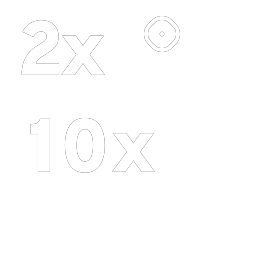
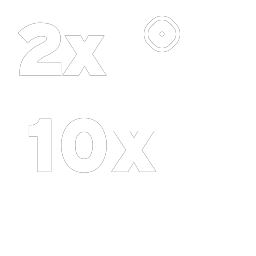
Set the sniper's 2x and 10x zoom labels in Cyborg Interface Gothic
The high-res scope's labels were set in Overpass Black, whose plain 1 and
round figures looked nothing like the maps' lettering (issue 756). They are
now set in Cyborg Interface Gothic, the high-res text's font, emboldened to
the maps' weight and fitted to their size, place and spacing, so the 1 has
the Xbox's flag and foot. tools/hud_assets.py makes the labels; the sheet
and its layout are made again, and AUTHORS.md, the HUD's NOTICE and the
README say the new font.

Checked: tools/test_hud_assets.py passes; the labels compared against the
Xbox's 2x and 10x and master's in-game scope.

Fixes #756

diff --git a/tools/hud_assets.py b/tools/hud_assets.py
@@ -42,8 +42,9 @@ layout: reads the Xbox map's HUD bitmaps (sizes, formats, sprite rectangles,
     port/assets/hud/art. A bitmap with a cell that the art does not match
     keeps its entry in layout.json as it was (its redraws). Needs a map and
     the restored tags; its output is committed.
-labels: sets the sniper's zoom labels (LABELS) in Overpass, each fitted to
-    the map's, into port/assets/hud/svg and their cells of layout.json.
+labels: sets the sniper's zoom labels (LABELS) in Cyborg Interface Gothic,
+    each fitted to the map's (size, place, spacing and weight), into
+    port/assets/hud/svg and their cells of layout.json.
 build: draws port/assets/hud/art and svg with layout.json into
     port/assets/hud/*.png (committed; the builds embed them).
 check: compares each PNG, reduced to the tag's size, with the map's bitmap
@@ -115,8 +116,8 @@ CORNERS = {
 }
 # the cells drawn from their redraw, not the restored art (the bitmap, the
 # Xbox cell): the sniper's zoom labels, the Xbox's 2x and 10x, where the
-# restored ones (Halo PC's) say 2x and 8x, set in Overpass together
-# (tools/hud_assets.py reticles: LABELS)
+# restored ones (Halo PC's) say 2x and 8x, set in Cyborg Interface Gothic
+# together (labels: LABELS)
 REDRAWN = {
     ("sniper__hud_reticles_scope__0", (0, 0, 31, 24)),
     ("sniper__hud_reticles_scope__0", (0, 24, 43, 48)),
@@ -138,13 +139,20 @@ MATCH = 0.25
 
 # the zoom labels beside the sniper's reticle, by sequence and sprite: the
 # restored art has Halo PC's (2x and 8x), not the Xbox's (2x and 10x), so they
-# are set in a font that matches them, with the spacing between their glyphs
-# that fits best
+# are set in the HUD's text font (issue 756: Overpass did not look like the
+# Xbox's), each with the spacing between its glyphs that fits it best, and
+# all at the weight that fits them best together: the Xbox's letters are
+# heavier than the font's one weight, so they are emboldened by an outline of
+# that width (hundredths of an em, mitred to keep the font's corners)
 LABELS = {
     HUD + "sniper\\hud_reticles_scope": {(1, 0): "2x", (1, 1): "10x"},
 }
-LABEL_FONT = Path("port/assets/fonts/Overpass-900.ttf")
-LABEL_SPACINGS = (-10, -8, -6, -4, -2, 0, 2, 4)
+LABEL_FONT = Path("port/assets/fonts/CyborgInterfaceGothic-Regular.ttf")
+LABEL_SPACINGS = (-6, -4, -2, 0, 2, 4, 6, 8, 10, 12)
+LABEL_WEIGHTS = (0, 2, 4, 6, 8, 10)
+# the least room between two glyphs' boxes (hundredths of an em): the Xbox's
+# run together in their blur, which drawn sharp would read as one shape
+LABEL_GAP = 3
 # render texels per Xbox texel while fitting one, and the scales tried
 # around the one its extent gives
 FIT_TEXELS = 8
@@ -675,15 +683,45 @@ def text_outlines(font: Path, text: str, spacing: float = 0) -> tuple:
             x * scale, (ascent - descent) * scale)
 
 
-def text_svg(font: Path, text: str, spacing: float = 0) -> str:
+def text_gap(font: Path, text: str, spacing: float = 0, weight: float = 0) -> float:
+    """The least room (hundredths of an em) between the boxes of text's
+    neighbouring glyphs, set as text_svg sets them."""
+    from fontTools.pens.boundsPen import BoundsPen
+    from fontTools.ttLib import TTFont
+
+    face = TTFont(str(font))
+    glyphs = face.getGlyphSet()
+    cmap = face.getBestCmap()
+    scale = 100 / face["head"].unitsPerEm
+    gaps, x, previous = [], 0, None
+    for character in text:
+        name = cmap[ord(character)]
+        pen = BoundsPen(glyphs)
+        glyphs[name].draw(pen)
+        if previous is not None:
+            gaps.append((x + pen.bounds[0] - previous) * scale - weight)
+        previous = x + pen.bounds[2]
+        x += face["hmtx"][name][0] + spacing / scale
+    return min(gaps, default=0)
+
+
+def text_svg(font: Path, text: str, spacing: float = 0, weight: float = 0) -> str:
     """text's outlines in a font, as an SVG (an em of 100 units), for a
     label that has no redraw: the glyphs as the font draws them, set with
-    its advances and spacing (in hundredths of an em) between them."""
+    its advances and spacing (in hundredths of an em) between them, and
+    emboldened by an outline weight hundredths of an em wide (half of it
+    outside the glyphs), the picture grown by that half on each side."""
     paths, transform, width, height = text_outlines(font, text, spacing)
+    pad = weight / 2
+    width, height = width + 2 * pad, height + 2 * pad
+    stroke = ""
+    if weight:
+        scale = float(transform.split("(")[1].split()[0])
+        stroke = f' stroke="#ffffff" stroke-width="{weight / scale:g}" stroke-linejoin="miter"'
     return (f'<svg xmlns="http://www.w3.org/2000/svg" width="{width:.2f}" height="{height:.2f}" '
             f'viewBox="0 0 {width:.2f} {height:.2f}">\n'
-            f'<!-- "{text}" in {font.name} -->\n'
-            f'<g fill="#ffffff" transform="{transform}">\n'
+            f'<!-- "{text}" in {font.name}, spacing {spacing:g}, weight {weight:g} -->\n'
+            f'<g fill="#ffffff"{stroke} transform="translate({pad:g} {pad:g}) {transform}">\n'
             + paths + "\n</g>\n</svg>\n")
 
 
@@ -736,10 +774,12 @@ def place(render: np.ndarray, alpha: np.ndarray, target: np.ndarray, zoom: float
 
 def labels(arguments) -> None:
     """The sniper's zoom labels (LABELS), set in LABEL_FONT at the size,
-    place and spacing between their glyphs that match the map's best, into
-    their cells of layout.json (REDRAWN: layout keeps them)."""
+    place and spacing between their glyphs that match the map's best, all
+    at the one weight that matches them best together (the Xbox's are one
+    weight), into their cells of layout.json (REDRAWN: layout keeps them)."""
     xbox_map = XboxMap(Path(arguments.map))
     description = json.loads(LAYOUT.read_text())
+    labelled = []
     for tag, texts in LABELS.items():
         group = xbox_map.bitmap_group(tag)
         for (sequence, sprite_index), text in sorted(texts.items()):
@@ -752,22 +792,29 @@ def labels(arguments) -> None:
             cell = pixel_rectangle(sprite, bitmap["width"], bitmap["height"])
             alpha = decode_bitmap(bitmap)[cell[1]:cell[3], cell[0]:cell[2], 3].astype(float)
             svg = f"label__{LABEL_FONT.stem}__{text}.svg"
-            best = None
-            for spacing in LABEL_SPACINGS:
-                (ASSETS / "svg" / svg).write_text(text_svg(LABEL_FONT, text, spacing))
-                fit = fit_reticle(ASSETS / "svg" / svg, alpha)
-                if best is None or fit[0] > best[0][0]:
-                    best = (fit, spacing)
-            (score, per_texel, corner), spacing = best
-            (ASSETS / "svg" / svg).write_text(text_svg(LABEL_FONT, text, spacing))
-            size = render_svg(ASSETS / "svg" / svg)[..., 3].shape
-            laid = {"xbox": cell, "svg": svg, "source_scale": round(per_texel, 5),
-                    "source": [round(corner[0], 4), round(corner[1], 4)],
-                    "clip": [0, 0, size[1], size[0]], "kind": "alpha", "score": round(score, 3)}
-            entry["cells"] = [c for c in entry["cells"] if c["xbox"] != cell] + [laid]
-            entry["cells"].sort(key=lambda c: c["xbox"])
-            print(f"{name} {cell}: \"{text}\" in {LABEL_FONT.name}, spacing {spacing}, "
-                  f"{per_texel:.4f} units a texel, likeness {score:.3f}")
+            # (each weight's best fit, over the spacings)
+            fits = {}
+            for weight in LABEL_WEIGHTS:
+                for spacing in LABEL_SPACINGS:
+                    if text_gap(LABEL_FONT, text, spacing, weight) < LABEL_GAP:
+                        continue
+                    (ASSETS / "svg" / svg).write_text(text_svg(LABEL_FONT, text, spacing, weight))
+                    fit = fit_reticle(ASSETS / "svg" / svg, alpha)
+                    if weight not in fits or fit[0] > fits[weight][0][0]:
+                        fits[weight] = (fit, spacing)
+            labelled.append((name, entry, cell, text, svg, fits))
+    weight = max(LABEL_WEIGHTS, key=lambda w: sum(fits[w][0][0] for *_, fits in labelled))
+    for name, entry, cell, text, svg, fits in labelled:
+        (score, per_texel, corner), spacing = fits[weight]
+        (ASSETS / "svg" / svg).write_text(text_svg(LABEL_FONT, text, spacing, weight))
+        size = render_svg(ASSETS / "svg" / svg)[..., 3].shape
+        laid = {"xbox": cell, "svg": svg, "source_scale": round(per_texel, 5),
+                "source": [round(corner[0], 4), round(corner[1], 4)],
+                "clip": [0, 0, size[1], size[0]], "kind": "alpha", "score": round(score, 3)}
+        entry["cells"] = [c for c in entry["cells"] if c["xbox"] != cell] + [laid]
+        entry["cells"].sort(key=lambda c: c["xbox"])
+        print(f"{name} {cell}: \"{text}\" in {LABEL_FONT.name}, spacing {spacing}, weight {weight}, "
+              f"{per_texel:.4f} units a texel, likeness {score:.3f}")
     LAYOUT.write_text(json.dumps(description, indent=1) + "\n")
 
 

diff --git a/tools/test_hud_assets.py b/tools/test_hud_assets.py
@@ -100,3 +100,32 @@ def test_holes_finds_a_letter_and_not_a_plain_oval():
     cut = oval.copy()
     cut[70:130, 90:110] = 0
     assert holes(cut.astype(np.uint8)) > 500
+
+
+
+def label_setting(svg: Path) -> tuple:
+    """What a label's SVG says it is: (its text, font, spacing, weight)."""
+    import re
+
+    match = re.search(r'<!-- "([^"]+)" in (\S+), spacing (-?[\d.]+), weight ([\d.]+) -->', svg.read_text())
+    return match and (match[1], match[2], float(match[3]), float(match[4]))
+
+
+def test_zoom_labels_are_set_in_the_text_font_apart_and_at_one_weight(tmp_path):
+    """The sniper's 2x and 10x (issue 756): Cyborg Interface Gothic, the
+    high-res text's font, emboldened to one weight, their glyphs apart."""
+    from hud_assets import LABEL_FONT, LABEL_GAP, text_gap
+
+    scope = next(entry for entry in entries(HUD / "layout.json") if entry["name"] == "sniper__hud_reticles_scope__0")
+    settings = [label_setting(HUD / "svg" / cell["svg"]) for cell in scope["cells"] if "svg" in cell]
+    assert sorted(setting[0] for setting in settings) == ["10x", "2x"]
+    assert {setting[1] for setting in settings} == {LABEL_FONT.name} == {"CyborgInterfaceGothic-Regular.ttf"}
+    assert len({setting[3] for setting in settings}) == 1 and settings[0][3] > 0
+    for text, _, spacing, weight in settings:
+        assert text_gap(ROOT / LABEL_FONT, text, spacing, weight) >= LABEL_GAP, text
+    # (negative controls: the Overpass label before, which says no weight;
+    # and a spacing that runs the emboldened 2 into its x)
+    before = tmp_path / "before.svg"
+    before.write_text('<!-- "10x" in Overpass-900.ttf -->')
+    assert label_setting(before) is None
+    assert text_gap(ROOT / LABEL_FONT, "2x", -4, 6) < LABEL_GAP

diff --git a/port/linux/README.md b/port/linux/README.md
@@ -6579,7 +6579,7 @@ does; making the eye images from the four layers cost 0.2 ms more there.
 | --- | --- |
 | Game code | All 466 C files of the game. The changes are in "Game source changes". |
 | Graphics | Direct3D 8 on Vulkan 1.3, in the host, with SDL3's window. A front end (`src/d3d8_device.c`) keeps the Direct3D state and turns each draw into a description that any graphics API can draw (`src/xgpu_backend.h`: the pipeline's key, the textures and targets it binds, the draw's ranges, all plain data); the Vulkan backend (`vulkan/`) draws them in the host, building the pipeline for a key once and keeping it (on macOS and iOS the Metal backend). The port translates the NV2A vertex shaders and register combiners into a description of their operations (`src/xgpu_shader.h`), which `src/xgpu_spirv.c` writes as SPIR-V (and `src/xgpu_msl.c` as MSL, for Metal). It decodes all the Xbox texture formats. The vertex and index buffers come from a copy of the Xbox memory on the GPU. |
-| High-res HUD | The HUD is drawn from high-res assets in `port/assets/hud`: Aerocatia's and Jessie's high-res HUD art from Halo PC Restored r220 (`port/assets/hud/NOTICE.md`), at its own 4x the size of the maps' bitmaps, cut and placed by `tools/hud_assets.py` (layout) where the Xbox maps' sheets have each sprite, each Xbox sprite from the restored sprite whose shape matches it best, aligned by its content (the meters from the release's sheets in the Xbox channel order). Where it has nothing larger than the map's bitmap (the motion sensor's blips and sweeper, the health meter's base) the texture is drawn from an SVG redraw at 8x; the sniper rifle's zoom labels (2x, 10x: the restored ones say 8x) are set in Overpass. The build embeds them in the executable. When the game uploads one of those bitmaps, `src/hud_hires.c` gives the high-res texture in its place, if the bitmap's pixels are those of the English maps: another language's maps keep their own, upscaled. The sheets with text (the message icons, the reticle's warnings) are drawn sprite by sprite, each checked on its own cell's texels, so that every language's maps draw the pictures from the art beside their own lettering. The classic style's controller buttons (`display.hud_button_style`) are the art's button stencils in the buttons' colours, their letters cut out as the Xbox's are. The game sizes and places the HUD from its tags as before. `display.high_res_hud = false` turns this off. |
+| High-res HUD | The HUD is drawn from high-res assets in `port/assets/hud`: Aerocatia's and Jessie's high-res HUD art from Halo PC Restored r220 (`port/assets/hud/NOTICE.md`), at its own 4x the size of the maps' bitmaps, cut and placed by `tools/hud_assets.py` (layout) where the Xbox maps' sheets have each sprite, each Xbox sprite from the restored sprite whose shape matches it best, aligned by its content (the meters from the release's sheets in the Xbox channel order). Where it has nothing larger than the map's bitmap (the motion sensor's blips and sweeper, the health meter's base) the texture is drawn from an SVG redraw at 8x; the sniper rifle's zoom labels (2x, 10x: the restored ones say 8x) are set in Cyborg Interface Gothic, the high-res text's font, emboldened to the maps' weight and fitted to their size, place and spacing (issue 756). The build embeds them in the executable. When the game uploads one of those bitmaps, `src/hud_hires.c` gives the high-res texture in its place, if the bitmap's pixels are those of the English maps: another language's maps keep their own, upscaled. The sheets with text (the message icons, the reticle's warnings) are drawn sprite by sprite, each checked on its own cell's texels, so that every language's maps draw the pictures from the art beside their own lettering. The classic style's controller buttons (`display.hud_button_style`) are the art's button stencils in the buttons' colours, their letters cut out as the Xbox's are. The game sizes and places the HUD from its tags as before. `display.high_res_hud = false` turns this off. |
 | High-res text | The menus' and HUD's text is drawn with Cyborg Interface Gothic, by fizzy (`port/assets/fonts`, SIL Open Font License; a character it lacks with Overpass, under the same licence), in place of the maps' bitmap fonts, which are Interstate. `src/text_hires.c` rasterizes each glyph with stb_truetype (`port/third_party/stb`) at the resolution the game draws at, into an atlas that a placeholder bitmap of the game stands for, on a thread of its own: each map's fonts' ASCII as the map's first text is drawn (before the menus and the HUD draw with them), any other character as it is first drawn; a string is drawn from its font tag's bitmaps until all its glyphs are in the atlas, a frame or two. The console's text (and the debug text, in the same font tag) is drawn with Hack Bold (MIT and Bitstream Vera licenses), a monospaced font, in place of the maps' small bitmap font. The game lays the text out from its font tags as before: each font is as tall as its tag's capitals, and narrowed where the tag's letters are narrower than the Xbox maps' (the fonts of a Custom Edition `loc.map`), so that its letters do not run into each other. The tags' widths are whole units of the 480 lines, not the font's, so each run of text (a line up to a tab, an icon or a change of style) is set with the font's own advances (and its kerning, where it has any: Cyborg Interface Gothic has none), its letters all as much closer or further apart as makes the run's ink as wide as the tag's, on which it is laid (`source/rasterizer/rasterizer_text.c`, `hires_text_glyph_offset`): the font's spacing, evenly, and the text where the game puts it (issue 744). `tools/text_spacing.py` measures every string of the menus and the maps against both (`tools/test_text_spacing.py`, with the maps). The prompts' A, B, X and Y buttons ("Hold X to swap for") are drawn where the Xbox draws its sprites of them, the text going on past them as it does (issue 754). The menus' titles (the screens' headers and the main menu's items) are pictures of text in the maps, so they are drawn as the high-res HUD is: `tools/title_assets.py` sets each one again in OpenCE, Roger White's public-domain Newtown respaced to match the maps' commercial title typeface (`tools/title_font.py`), at 4x the bitmap's size over its own plate or glow, each letter placed where the map's letter is, in `port/assets/titles`. The postgame carnage report's title is set over a hand-made SVG redraw of its panel (`port/assets/titles/svg`) instead. The A, B, X and Y button icons beside the menus' key labels and in their text ("Press A to Join") are drawn from hand-made SVG redraws at 8x the size of the maps' bitmaps (`port/assets/buttons`, made by `tools/button_assets.py`), in the same sizes and places. `display.high_res_text = false` turns it off. |
 | Dynamic lights | `display.dynamic_lights = "enhanced"` (`src/d3d8_device.c`, `game/dynamic_lights.c`; Vulkan's `src/xgpu_spirv.c`, `vulkan/xgpu_vulkan_stream.c`): the frame's lights are a uniform block, and a 32 x 32 x 16 grid about the camera, its cells growing with the distance (out to 128 world units each way), a 128-bit mask of the lights that reach each cell (an integer 3D texture), and past the cells a mask for each of the structure's clusters of the lights that reach it (those the light's sphere floods into through the portals) and the structure's 3D BSP, from which each pixel finds its cluster, so that a light does not light through a wall (`game/dynamic_lights.c`, `src/xgpu.h`). The structure's lightmap pass and the models' per-pixel lighting (`display.per_pixel_lighting`'s, which this turns on) add the lights of their cell for each pixel, in place of the game's pass over the structure for each light and its two lights for each model. The vertex shaders hand on the world position: a model program's skinned position before it is projected, a structure's vertex as it is. The glows are a camera-facing quad each, projected as the game's programs are, faded against the scene's depth, sampled with the target drawn into without it. With Vulkan the block and the cells are its draw set's, written in the stream's order, and the glows' shaders are the SPIR-V emitter's. Metal draws them alike (`src/xgpu_msl.c`, `port/macos/xgpu_metal_stream.m`): the block and the cells (in buffers: the cells' masks in the texture's order) are copied into the frame's upload ring as the stream sends them and bound for the draws after them, and the glows' functions are the MSL emitter's, the SPIR-V emitter's operation for operation. A view that finds more lights than the 128 lit (512 on the desktop builds and the Mac, 256 on the Steam Frame: `include/halo_port_capacity.h`) lights the 128 that show most, each scored by its brightness times its radius over its distance as it was drawn last frame, those wholly behind the camera last (`game/dynamic_lights.c`, `dynamic_lights_rank`), classic lights too. |
 | Anti-aliasing | Off unless `display.anti_aliasing` is set (`src/d3d8_device.c`). FXAA (written in the port) and SMAA (`port/third_party/smaa`, MIT licensed, at its HIGH preset, compiled as GLSL) are passes over the 3D view of each window, after the lens flares and before the HUD and the menus (`render/render.c`). The Vulkan backend runs them, their GLSL (`tools/vulkan_post_shaders.py`) compiled to SPIR-V when the port is changed (`vulkan/xgpu_vulkan_post.c`), its pipelines made when the setting is chosen and as a map is prepared. The Metal backend runs them too, the same SPIR-V written as MSL by SPIRV-Cross (`port/macos/xgpu_metal_post.c`, `tools/metal_post_shaders.py`). Supersampling draws the render targets the size of the screen at two times the resolution in each direction, and the display blit scales them down. Multisampling draws the back buffer and its depth buffer into multisampled renderbuffers, and with them any target that is drawn together with one of them (a mirror's view, in the secondary target with the back buffer's depth buffer), so that the attachments of a framebuffer are all multisampled or none is. A target's pixels are resolved into its texture before something reads the texture (as a texture, or at the display blit). Visibility tests count samples, divided by the samples of a pixel. An alpha-tested surface (foliage, grates) covers the samples of a pixel in proportion to its alpha past the reference (the sample mask). |

diff --git a/AUTHORS.md b/AUTHORS.md
@@ -28,8 +28,8 @@
   than the Xbox's bitmap (the health meter's base, the motion sensor's
   blips and sweeper, and the outlines of the vehicles' and passengers'
   panels): by MrBruh (`port/assets/hud/svg`), based on reference photos by
-  Aerocatia. The sniper rifle's zoom labels (2x, 10x) are set in Overpass
-  (`port/assets/fonts`).
+  Aerocatia. The sniper rifle's zoom labels (2x, 10x) are set in Cyborg
+  Interface Gothic (`port/assets/fonts`).
 - **The high-res text's font**, Cyborg Interface Gothic (the menus' and
   the HUD's text, `port/assets/fonts`): by fizzy, made to match Halo's
   interface font, many of its glyphs derived from Overpass and the others

diff --git a/port/assets/hud/NOTICE.md b/port/assets/hud/NOTICE.md
@@ -54,4 +54,5 @@ sweeper (`hud_sensor_blip__0.png`, `hud_sensor_blip_custom__0.png`,
 upscaled seat plates of other languages' maps get
 (`vehicle_wrench_outline__0.png`, `passenger_health_outline__0.png`). The
 sniper's zoom labels (2x and 10x, in `sniper__hud_reticles_scope__0.png`)
-are set in Overpass, as the restored ones say 2x and 8x (Halo PC's).
+are set in Cyborg Interface Gothic (`port/assets/fonts`), as the restored
+ones say 2x and 8x (Halo PC's).
